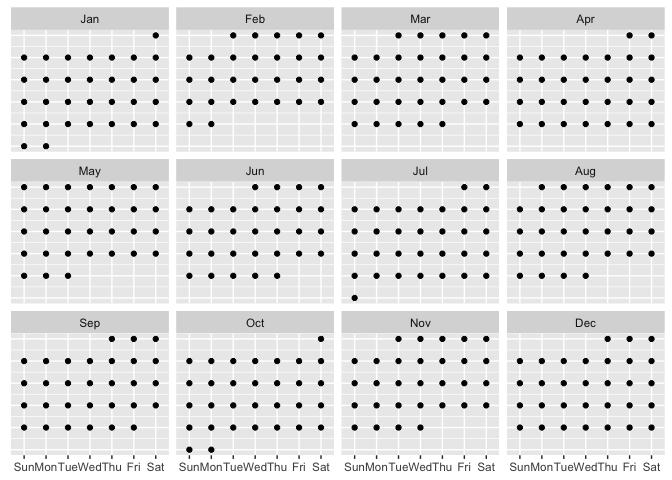
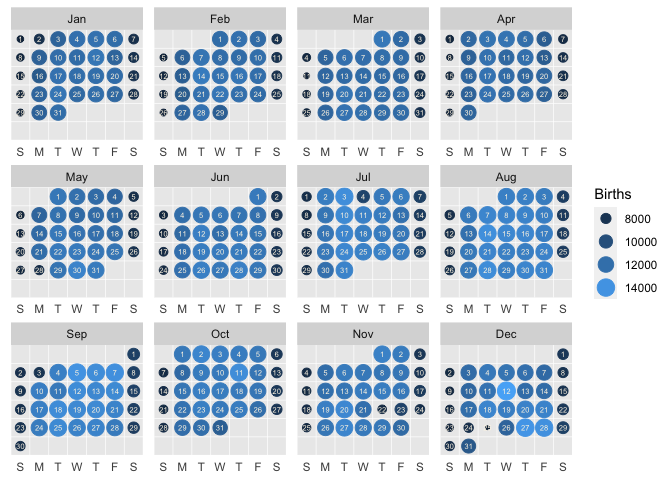
worked examples

diff --git a/README.md b/README.md
@@ -135,6 +135,30 @@ nycflights13::flights %>%
 
 -----
 
+``` r
+births <- "https://raw.githubusercontent.com/EvaMaeRey/tableau/9e91c2b5ee803bfef10d35646cf4ce6675b92b55/tidytuesday_data/2018-10-02-us_births_2000-2014.csv"
+
+read_csv(births) %>% 
+  mutate(month = str_pad(month, 2, pad = "0"),
+         date_of_month = str_pad(date_of_month, 2, pad = "0")) %>% 
+  mutate(date = paste(year, month, date_of_month, sep = "-") %>% as_date()) %>% 
+  filter(year == 2012) %>% 
+  ggcalendar() + 
+  aes(date = date) + 
+  geom_point_calendar() +
+  aes(size = births) +
+  aes(color = births) +
+  geom_text_calendar(aes(label = day(date)), color = "oldlace", size = 2) + 
+  guides(
+    colour = guide_legend("Births"),
+    size = guide_legend("Births")
+ )
+```
+
+<img src="man/figures/README-unnamed-chunk-5-1.png" width="100%" />
+
+-----
+
 # A little on the internals, the compute group function or thank you lubridate\!
 
 ``` r
@@ -183,6 +207,14 @@ StatCalendar <- ggplot2::ggproto(`_class` = "StatCalendar",
                                  default_aes = ggplot2::aes(x = ggplot2::after_stat(day_of_week %>% as.numeric()),
                                                             y = ggplot2::after_stat(week_of_month),
                                                             label = ggplot2::after_stat(date_of_month)))
+
+StatWeekly <- ggplot2::ggproto(`_class` = "StatCalendar",
+                               `_inherit` = ggplot2::Stat,
+                               required_aes = c("date"),
+                               compute_group = compute_group_calendar,
+                               default_aes = ggplot2::aes(x = ggplot2::after_stat(day_of_week %>% as.numeric()),
+                                                          y = ggplot2::after_stat(hour),
+                                                          label = ggplot2::after_stat(hour)))
 ```
 
 ``` r
